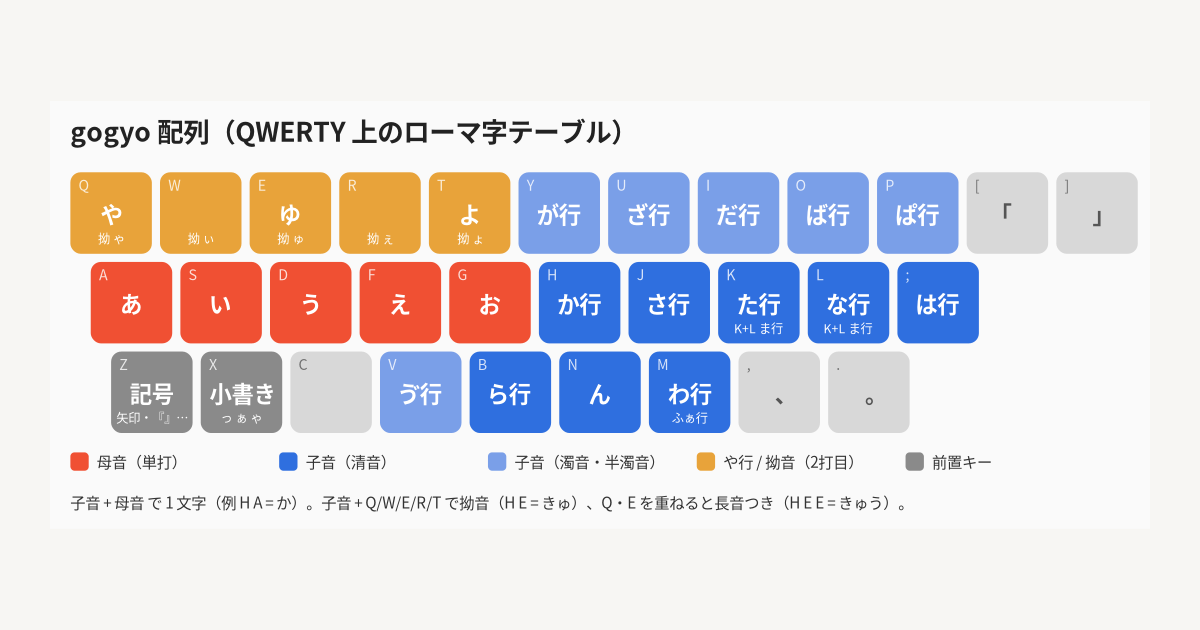
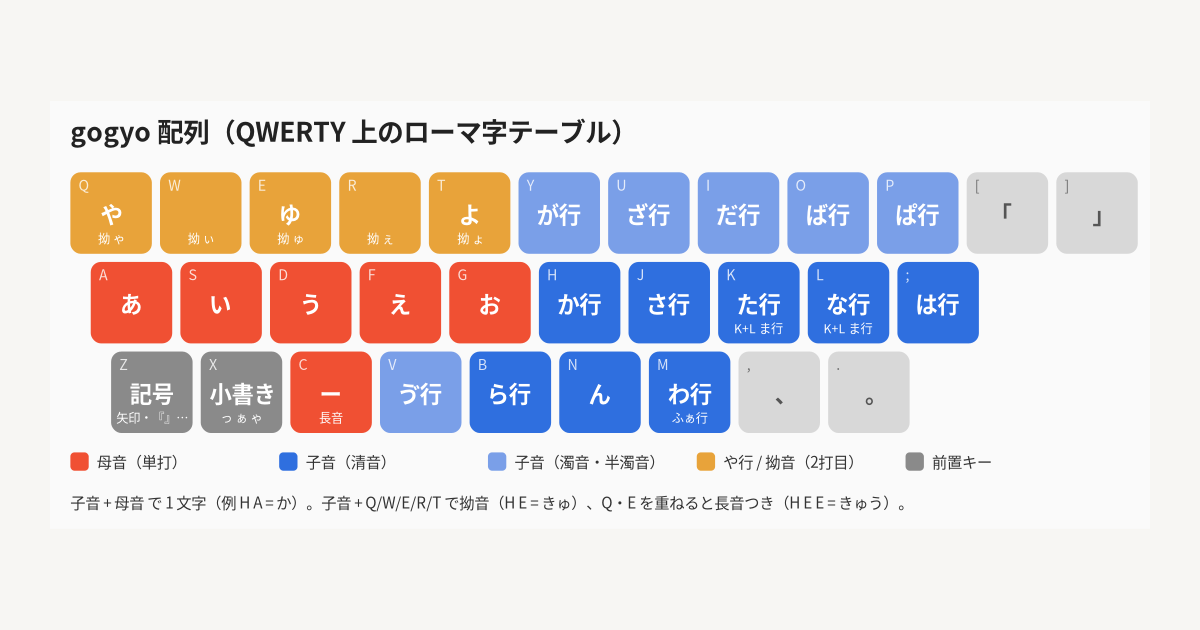
v1.1.0: C key types ー

Changed region(s): [[0.2158, 0.5429, 0.3083, 0.6937]]

diff --git a/index.html b/index.html
@@ -159,8 +159,13 @@ footer{text-align:center;color:var(--mute);padding:2em;border-top:1px solid var(
 <li>拗音の 2 打目に <code>w</code> と <code>r</code> を使うと「ぃ」と「ぇ」がつきます（<code>hw</code> で「きぃ」、<code>jr</code> で「しぇ」）。</li>
 <li>「ぢ」と「づ」は <code>is</code> と <code>id</code> です。「ぢゃ」なども <code>iq</code> のように打てます。</li>
 <li><code>xkd</code> でも「っ」になります。</li>
+<li><code>c</code> は長音記号「ー」です。<code>-</code> でも打てます。</li>
 </ul>
 <h2 id="releases">リリースノート</h2>
+<h3>v1.1.0 <small style="color:var(--mute);font-weight:400">2026-10-30</small></h3>
+<ul>
+<li>空いていた <code>C</code> キーに長音記号「ー」を割り当てた.</li>
+</ul>
 <h3>v1.0.0 <small style="color:var(--mute);font-weight:400">2026-10-30</small></h3>
 <ul>
 <li>最初のリリース.</li>
@@ -170,6 +175,6 @@ footer{text-align:center;color:var(--mute);padding:2em;border-top:1px solid var(
 <li>外来音 (てぃ, でぃ, ふぁ, うぃ, つぁ など) に対応.</li>
 </ul>
 </main>
-<footer>gogyo v1.0.0 · <a href="https://github.com/cympfh/gogyo">cympfh/gogyo</a></footer>
+<footer>gogyo v1.1.0 · <a href="https://github.com/cympfh/gogyo">cympfh/gogyo</a></footer>
 </body>
 </html>
